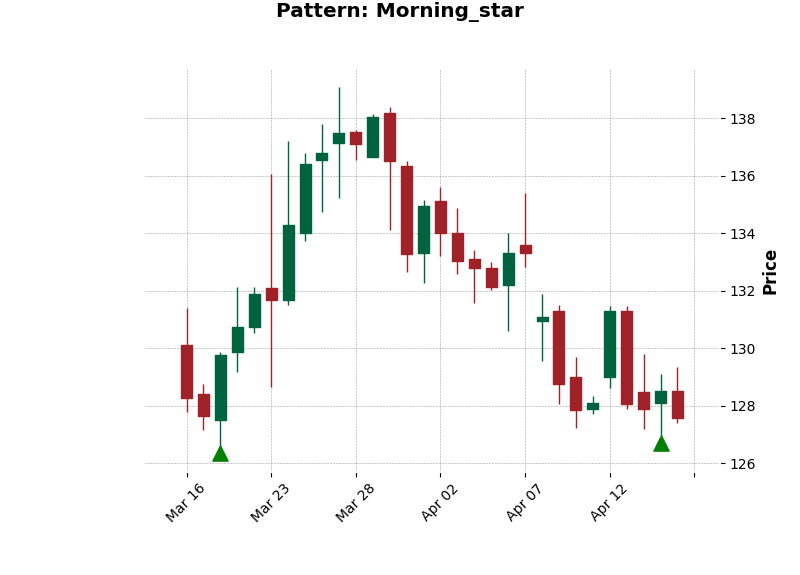
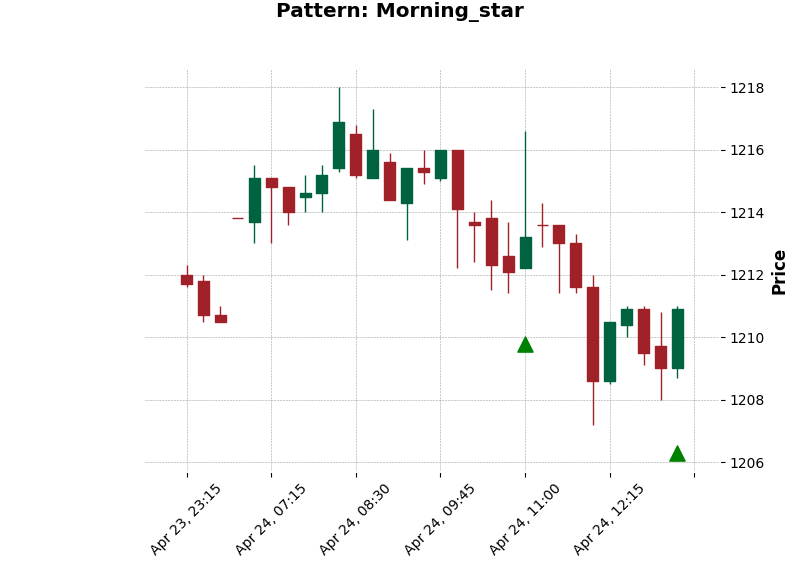
Add get_levels, draw_levels in LevelDetector

diff --git a/Trading/Levels.py b/Trading/Levels.py
@@ -1,0 +1,136 @@
+from abc import ABC, abstractmethod
+import pandas as pd
+import time
+from datetime import datetime, timedelta
+from moexalgo import Ticker
+import pandas_ta as ta
+import mplfinance as mpf
+import numpy as np
+import asyncio
+from aiogram import Bot
+from aiogram.types import FSInputFile
+from aiogram.client.session.aiohttp import AiohttpSession
+from typing import Callable
+
+from CandlePower02 import get_candles
+
+class LevelDetector:
+    def __init__(self, window, sensitivity):
+        self.window = window
+        self.sensitivity = sensitivity
+        
+    def get_levels(self, df: pd.DataFrame) -> tuple[dict, dict]:
+        
+        df['is_min'] = df['low'] == df['low'].rolling(window=self.window*2+1, center=True).min()
+    
+        df['is_max'] = df['high'] == df['high'].rolling(window=self.window*2+1, center=True).max()
+    
+        supports = df[df['is_min']]['low'].reset_index().values.tolist() #[[index, level], ...]
+        resistances = df[df['is_max']]['high'].reset_index().values.tolist()
+    
+        score_supports = self.cluster_levels(supports)
+        score_resistances = self.cluster_levels(resistances)
+        
+        return self.find_mirro(score_supports, score_resistances)
+    
+    def cluster_levels(self, points: list) -> list:
+        
+        levels = {}
+        
+        for i, point in points:
+            found_nearby = False
+            for level_price in list(levels.items()):
+                if abs(point - level_price[0]) / level_price[0] <= self.sensitivity:
+                    levels[level_price[0]][0] += 1
+                    levels[level_price[0]][1] = i
+                    found_nearby = True
+                    break
+            
+            if not found_nearby:
+                #[1 касание, индекс этой свечи]
+                levels[point] = [1, i]
+            
+        #{цена: [баллы, последний_индекс]}
+        return {p: [t[0] // 2, t[1]] for p, t in levels.items() if t[0] >= 2}
+    
+    def find_mirro(self, score1: dict, score2: dict) -> tuple[dict, dict]:
+        
+        #разные типы (поддержка / сопротивление)
+        levels1 = list(score1.keys())
+        levels2 = list(score2.keys())
+            
+        s1 = score1.copy()
+        s2 = score2.copy()
+
+        
+        for p1 in levels1:
+            for p2 in levels2:
+                #учитывание погрешности
+                if abs(p1 - p2) / p1 <= self.sensitivity:
+                    total_score = s1[p1][0] + s2[p2][0] + 2
+                    
+                    if s1[p1][1] > s2[p2][1]:
+                        s1[p1][0] = total_score
+                        if p2 in s2: 
+                            del s2[p2]
+                    else:
+                        s2[p2][0] = total_score
+                        if p1 in s1: 
+                            del s1[p1]
+                    break 
+        
+        return s1, s2
+
+    def prepare_hlines(self, final_levels: tuple[dict, dict]) -> dict:
+
+        s_dict, r_dict = final_levels
+    
+        hlines_prices = []
+        hlines_colors = []
+        hlines_widths = []
+
+        #Обрабатываем поддержки (зеленые)
+        for price, data in s_dict.items():
+            score = data[0]
+            hlines_prices.append(price)
+            hlines_colors.append('green')
+            #Толщина зависит от баллов (минимум 1, максимум 4)
+            hlines_widths.append(min(score, 4))
+
+        #Обрабатываем сопротивления (красные)
+        for price, data in r_dict.items():
+            score = data[0]
+            hlines_prices.append(price)
+            hlines_colors.append('red')
+            hlines_widths.append(min(score, 4))
+
+        return dict(hlines=hlines_prices, 
+                    colors=hlines_colors, 
+                    linewidths=hlines_widths, 
+                    linestyle='--')
+    
+    def draw_levels(self, df, ticker, tf, final_levels, pattern_name="Signal"):
+        
+        plot_df = df.iloc[-50:].copy()
+        plot_df['datetime'] = pd.to_datetime(plot_df['datetime'])
+        plot_df.set_index('datetime', inplace=True)
+
+        hlines_config = self.prepare_hlines(final_levels)
+
+        file_name = f"Trading/Graf/{ticker}_{tf}_levels.png"
+    
+        mpf.plot(plot_df, type='candle', style='charles',
+                title=f"{ticker} {tf} | Levels Analysis",
+                hlines=hlines_config,
+                savefig=file_name,
+                tight_layout=True)
+    
+        return file_name
+    
+if __name__ == '__main__':
+    df = asyncio.run(get_candles(ticker_name='SBER'))
+    
+    level = LevelDetector(10, 0.003)
+    supports, resistances = level.get_levels(df)
+    
+    level.draw_levels(df, 'SBER', '1h', (supports, resistances))